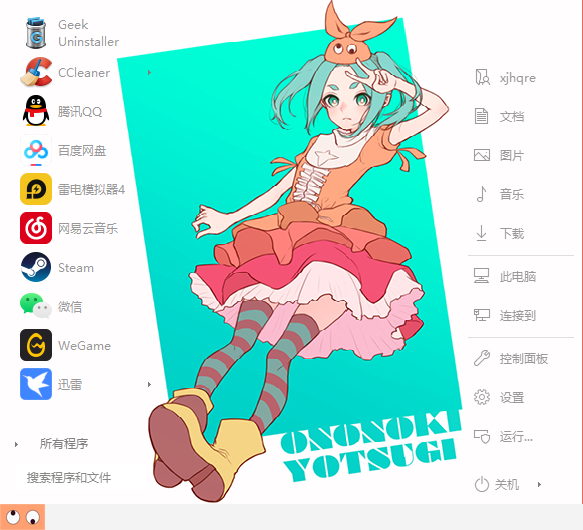
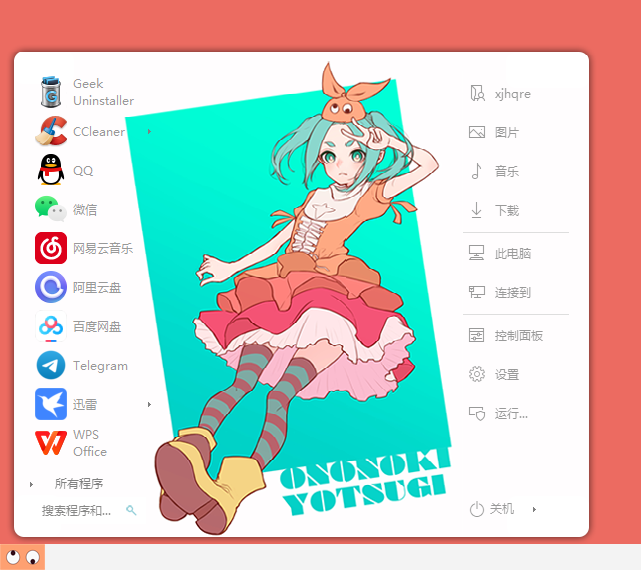
Signed-off-by: xjhqre <859425698@qq.com>

diff --git a/README.md b/README.md
@@ -40,5 +40,7 @@
 
 将压缩包中的文件解压到 C:\Windows\Resources 目录下，然后在桌面右键 -> 个性化 -> 主题点击使用即可
 
+开始菜单使用startlsback修改
+
 具体的win10主题破解请参考[致美化](https://zhutix.com/)网站
 
